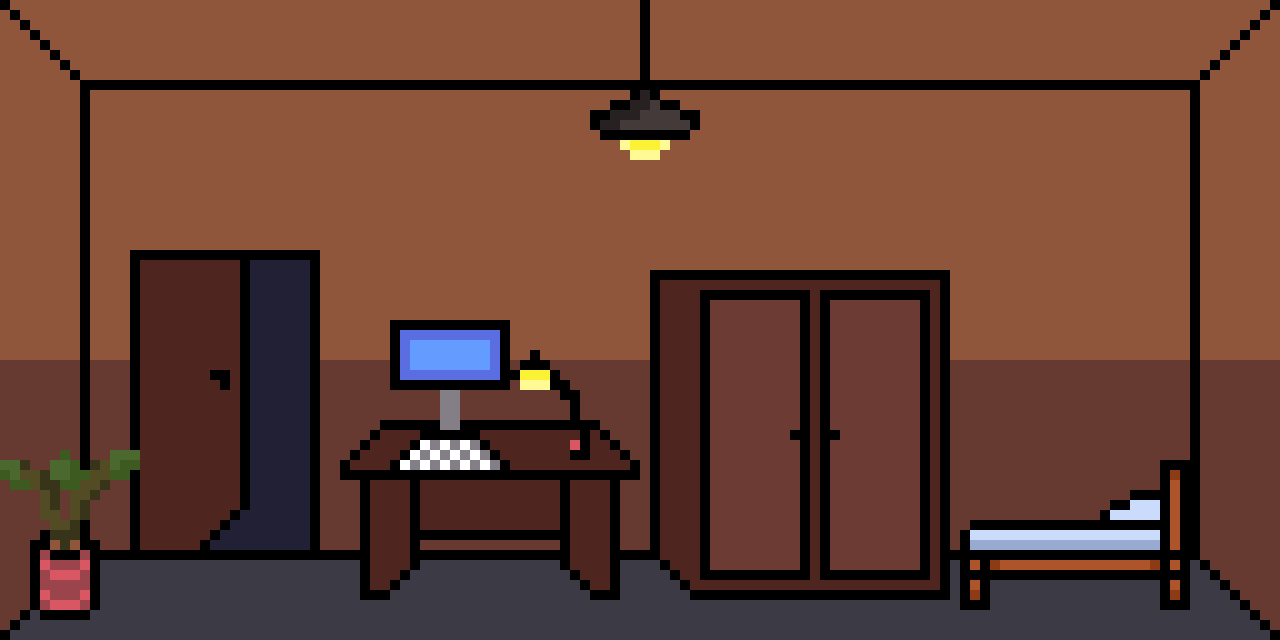
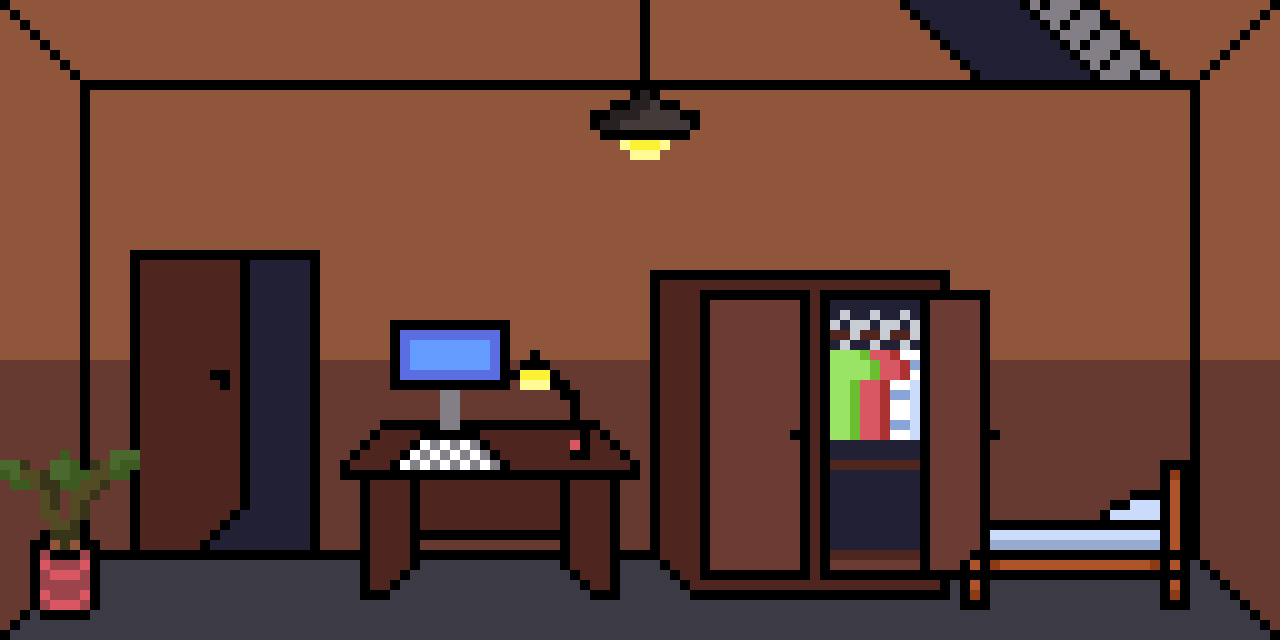
style(Strangerroom): nieuwe item toegevoegd

Changed region(s): [[0.625, 0.4375, 0.7812, 0.9062], [0.6875, 0.0, 0.9375, 0.125]]

diff --git a/src/api/src/game-implementation/rooms/StrangerRoom.ts b/src/api/src/game-implementation/rooms/StrangerRoom.ts
@@ -31,7 +31,15 @@ export class StrangerRoom extends Room {
     }
 
     public images(): string[] {
-        return ["strangerroom/StrangerRoomBackground"];
+        const playerSession: PlayerSession = gameService.getPlayerSession();
+        const result: string[] = ["strangerroom/StrangerRoomBackground"];
+
+        // Add images based on player session state
+        if (!playerSession.pickedUpSheets) {
+            result.push("strangerroom/Sheets");
+        }
+
+        return result;
     }
 
     public ArrowUrl(): Arrowroom[] {
